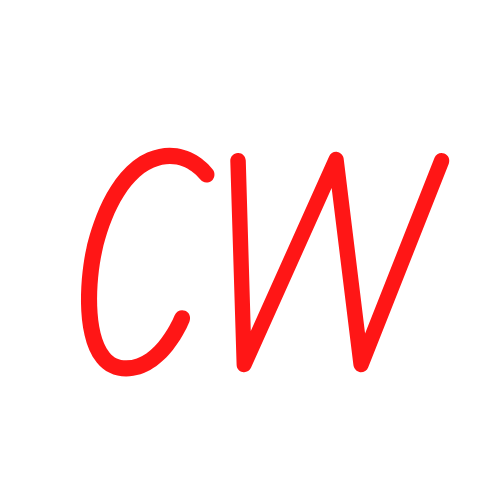
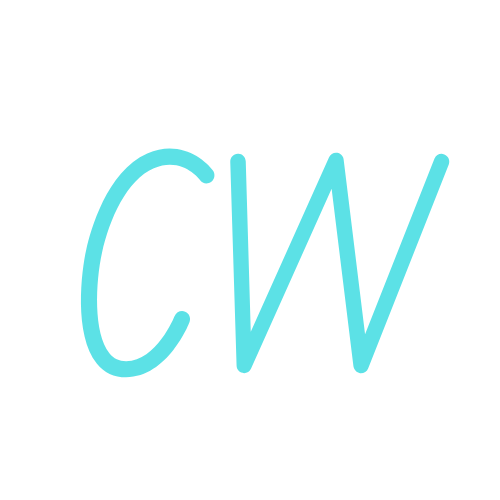
design update

Changed region(s): [[0.15, 0.27, 0.9, 0.78]]

diff --git a/src/components/Work.jsx b/src/components/Work.jsx
@@ -1,12 +1,14 @@
 import React from 'react'
-import WorkImg from '../assets/workImg.jpeg'
-import realEstate from '../assets/realestate.jpg'
+import duck from '../assets/duck.png'
+import index from '../assets/index.jfif'
+import flight from '../assets/flight.jpg'
+import tweet from '../assets/tweet.png'
 const Work = () => {
   return (
     <div name='work' className='w-full md:h-screen text-gray-300 text-gray-300 bg-[#0a192f]'>
         <div className='max-w-[1000px] mx-auto p-4 flex flex-col justify-center w-full h-full'>
             <div className='pb-8'>
-                <p className='text-4xl font-bold inline border-b-4 text-gray-300 border-pink-600'>Work</p>
+                <p className='text-4xl font-bold inline border-b-4 text-gray-300 border-teal-700'>Work</p>
                 <p className='py-6'>// Check out some of my recent work</p>
             </div>
 
@@ -15,7 +17,7 @@ const Work = () => {
              className='grid sm:grid-cols-2 md:grid-cols-2 gap-4'>
                 
                 {/* Grid item */}
-                <div style={{backgroundImage: `url(${WorkImg})`}} className='shadow-lg shadow-[#040c16] group container rounded-md flex justify-center items-center mx-auto content-div'>
+                <div style={{backgroundImage: `url(${duck})`}} className='shadow-lg shadow-[#040c16] group container rounded-md flex justify-center items-center mx-auto content-div'>
                     
                     {/* Hover Effects */}
                     <div className='opacity-0 group-hover:opacity-100'>
@@ -26,32 +28,32 @@ const Work = () => {
                             <a href="/">
                                 <button className='text-center rounded-lg px-4 py-3 m-2 bg-white text-gray-700 font-bold text-lg'>Demo</button>
                             </a>
-                            <a href="/">
+                            <a href="https://github.com/cullenwatson/search_engine" target="_blank">
                                 <button className='text-center rounded-lg px-4 py-3 m-2 bg-white text-gray-700 font-bold text-lg'>Code</button>
                             </a>
                         </div>
                     </div>
                 </div>
                 {/* Grid item */}
-                <div style={{backgroundImage: `url(${realEstate})`}} className='shadow-lg shadow-[#040c16] group container rounded-md flex justify-center items-center mx-auto content-div'>
+                <div style={{backgroundImage: `url(${index})`}} className='shadow-lg shadow-[#040c16] group container rounded-md flex justify-center items-center mx-auto content-div'>
                     
                     {/* Hover Effects */}
                     <div className='opacity-0 group-hover:opacity-100'>
                         <span className='text-2xl font-bold  text-white tracking-wider'>
-                            Tweet Sentiment Analyzer
+                            Book Indexer
                         </span>
                         <div className='pt-8 text-center'>
                             <a href="/">
                                 <button className='text-center rounded-lg px-4 py-3 m-2 bg-white text-gray-700 font-bold text-lg'>Demo</button>
                             </a>
-                            <a href="/">
+                            <a href="https://github.com/cullenwatson/auto_indexer" target="_blank">
                                 <button className='text-center rounded-lg px-4 py-3 m-2 bg-white text-gray-700 font-bold text-lg'>Code</button>
                             </a>
                         </div>
                     </div>
                 </div>
                 {/* Grid item */}
-                <div style={{backgroundImage: `url(${WorkImg})`}} className='shadow-lg shadow-[#040c16] group container rounded-md flex justify-center items-center mx-auto content-div'>
+                <div style={{backgroundImage: `url(${flight})`}} className='shadow-lg shadow-[#040c16] group container rounded-md flex justify-center items-center mx-auto content-div'>
                     
                     {/* Hover Effects */}
                     <div className='opacity-0 group-hover:opacity-100'>
@@ -62,25 +64,25 @@ const Work = () => {
                             <a href="/">
                                 <button className='text-center rounded-lg px-4 py-3 m-2 bg-white text-gray-700 font-bold text-lg'>Demo</button>
                             </a>
-                            <a href="/">
+                            <a href="https://github.com/cullenwatson/flight_planner" target="_blank">
                                 <button className='text-center rounded-lg px-4 py-3 m-2 bg-white text-gray-700 font-bold text-lg'>Code</button>
                             </a>
                         </div>
                     </div>
                 </div>
                 {/* Grid item */}
-                <div style={{backgroundImage: `url(${realEstate})`}} className='shadow-lg shadow-[#040c16] group container rounded-md flex justify-center items-center mx-auto content-div'>
+                <div style={{backgroundImage: `url(${tweet})`}} className='shadow-lg shadow-[#040c16] group container rounded-md flex justify-center items-center mx-auto content-div'>
                     
                     {/* Hover Effects */}
                     <div className='opacity-0 group-hover:opacity-100'>
                         <span className='text-2xl font-bold  text-white tracking-wider'>
-                            Index Generator
+                            Tweet Sentiment
                         </span>
                         <div className='pt-8 text-center'>
                             <a href="/">
                                 <button className='text-center rounded-lg px-4 py-3 m-2 bg-white text-gray-700 font-bold text-lg'>Demo</button>
                             </a>
-                            <a href="/">
+                            <a href="https://github.com/cullenwatson/tweet_sentiment_analyzer" target="_blank">
                                 <button className='text-center rounded-lg px-4 py-3 m-2 bg-white text-gray-700 font-bold text-lg'>Code</button>
                             </a>
                         </div>

diff --git a/src/components/About.jsx b/src/components/About.jsx
@@ -6,20 +6,20 @@ const About = () => {
             <div className='flex flex-col justify-center items-center w-full h-full'>
                 <div className='max-w-[1000px] w-full grid grid-cols-2 gap-8'>
                     <div className='sm:text-right pb-8 pl-4'>
-                        <p className='text-4xl font-bold inline border-b-4 border-pink-600'>About</p>
+                        <p className='text-4xl font-bold inline border-b-4 border-teal-700'>About</p>
                     </div>
                     <div></div>
                     </div>
                     <div className='max-w-[1000px] w-full grid sm:grid-cols-2 gap-8 px-4'>
                         <div className='sm:text-right text-4xl font-bold'>
-                            <p>Hi. I'm Cullen, nice to meet you. Please take a look around.</p>
+                            <p>Hi. I'm Cullen, nice to meet you. Please take a look around!</p>
                         </div>
                         <div>
                             <p>
-                                I am passionate abould building excellent softare that ultimately
-                                solves people's problems. I plan to specialize in Cyber Security, as
-                                that has always been an interest of mine. What would you do if you
-                                had an expert like me at your command?
+                                I am passionate abould building excellent software that
+                                solves people's problems. I want to improve the lives of people around me by saving time through automation, simplicity, and enjoyment of the 
+                                software I create. I am familiar with many programming languages, such as Java, Python, and C++. In my free time, I'm currently
+                                learning React to design beautiful websites.
                             </p>
                         </div>
                     </div>

diff --git a/src/components/Home.jsx b/src/components/Home.jsx
@@ -7,17 +7,17 @@ const Home = () => {
         
         {/* Container */}
         <div className='max-w-[1000px] mx-auto px-8 flex flex-col justify-center h-full'>
-            <p className='text-pink-600'>Hi, my name is</p>
+            <p className='text-teal-600'>Hi, my name is</p>
             <h1 className='text-4xl sm:text-7xl font-bold text-[#ccd6f6]'>Cullen Watson</h1>
-            <h2 className='text-4xl sm:text-7xl font-bold text-[#8892b0]'>I'm a Student at SMU.</h2>
-            <p className='text-[#8892b0] py-4 max-w-[700px]'>I'm a junior undergrad studing CS and Finance with special interest in Cyber Security and FinTech. Currently, I'm focused
+            <h2 className='text-4xl sm:text-7xl font-bold text-[#8892b0]'>I'm a CS Student.</h2>
+            <p className='text-[#8892b0] py-4 max-w-[700px]'>I'm a junior at SMU studying CS and Finance. Currently, I'm focused
             on obtaining a tech internship for the fall of 2023 as part of the Lyle School of Engineering Co-Op Program.
             </p>
             <div>
               <Link  to="about" smooth={true} duration={500}>
             
             
-                <button className='text-white group border-2 px-6 py-3 my-2 flex items-center hover:bg-pink-600 hover:border-pink-600'>
+                <button className='text-white group border-2 px-6 py-3 my-2 flex items-center hover:bg-teal-600 hover:border-teal-600'>
                   
                   About
                   <span className='group-hover:rotate-90 duration-300'>

diff --git a/src/components/Contact.jsx b/src/components/Contact.jsx
@@ -27,14 +27,14 @@ const Contact = () => {
     <div name='contact' className='w-full h-screen bg-[#0a192f] flex justify-center items-center p-4'>
         <form ref={form} onSubmit={sendEmail} className='flex flex-col max-w-[600px] w-full'>
             <div className='pb-8'>
-                <p className='text-4xl fond-bold inline border-b-4 border-pink-600 text-gray-300'>Contact</p>
+                <p className='text-4xl fond-bold inline border-b-4 border-teal-700 text-gray-300'>Contact</p>
                 <p className='text-gray-300 py-4'>// Submit the form below or shoot me an email - cgwatson@smu.edu</p>
             </div>
             <input className='p-2 bg-[#ccd6f6]' type="text" placeholder='Name' name='user_name' />
             <input className='my-4 p-2 bg-[#ccd6f6]' type="email" placeholder='Email' name='user_email' />
             <textarea className='bg-[#ccd6f6] p-2' name='message' rows="10" placeholder="Message"></textarea>
-            
-            <button className='text-white border-2 hover:bg-pink-600 hover:border-pink-600 px-4 py-3 my-8 mx-auto flex items-center'>
+
+            <button className='text-white border-2 hover:bg-teal-600 hover:border-teal-700 px-4 py-3 my-8 mx-auto flex items-center'>
                 Let's Collaborate</button>
         </form>
         

diff --git a/public/index.html b/public/index.html
@@ -7,7 +7,7 @@
     <meta name="theme-color" content="#000000" />
     <meta
       name="description"
-      content="Web site created using create-react-app"
+      content="Cullen Watson's portfolio"
     />
     <link rel="apple-touch-icon" href="%PUBLIC_URL%/logo192.png" />
     <!--
@@ -24,7 +24,7 @@
       work correctly both with client-side routing and a non-root public URL.
       Learn how to configure a non-root public URL by running `npm run build`.
     -->
-    <title>React App</title>
+    <title>Cullen Watson</title>
   </head>
   <body>
     <noscript>You need to enable JavaScript to run this app.</noscript>

diff --git a/src/components/Skills.jsx b/src/components/Skills.jsx
@@ -18,7 +18,7 @@ const Skills = () => {
         {/* Container */}
         <div className='max-w-[1000px] mx-auto p-4 flex flex-col justify-center w-full h-full'>
             <div>
-                <p className='text-4xl font-bold inline border-b-4 border-pink-600 '>Skills</p>
+                <p className='text-4xl font-bold inline border-b-4 border-teal-700 '>Skills</p>
                 <p className='py-4'>// These are the technologies I've worked with</p>
             </div>
             <div className='w-full grid grid-cols-2 sm:grid-cols-3 gap-6 text-center py-8'>
